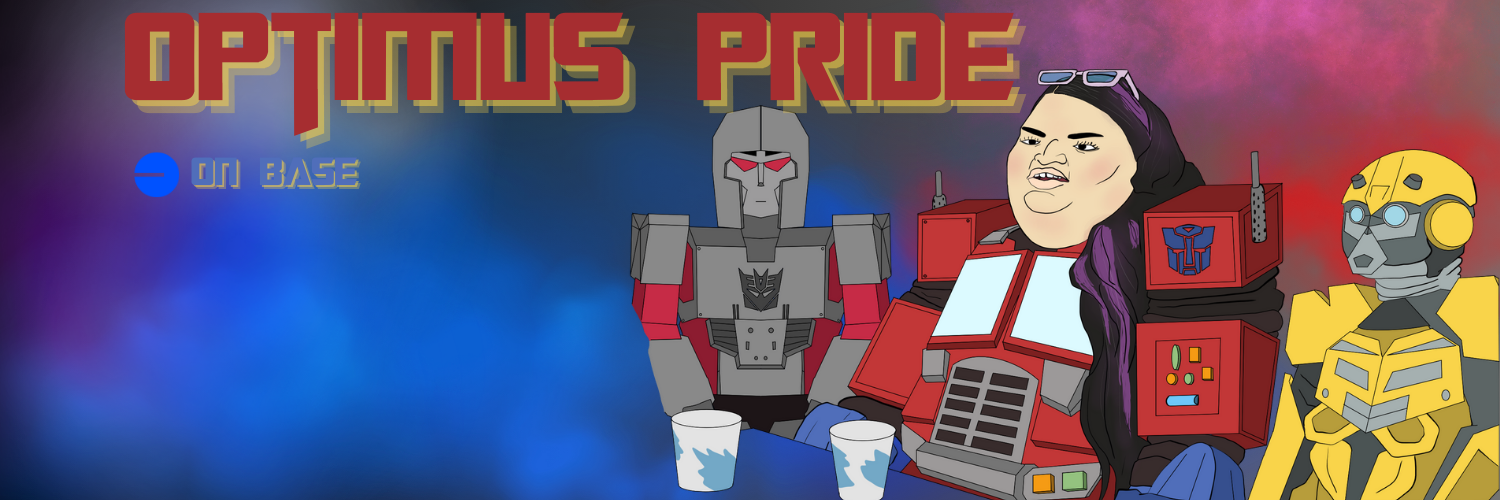
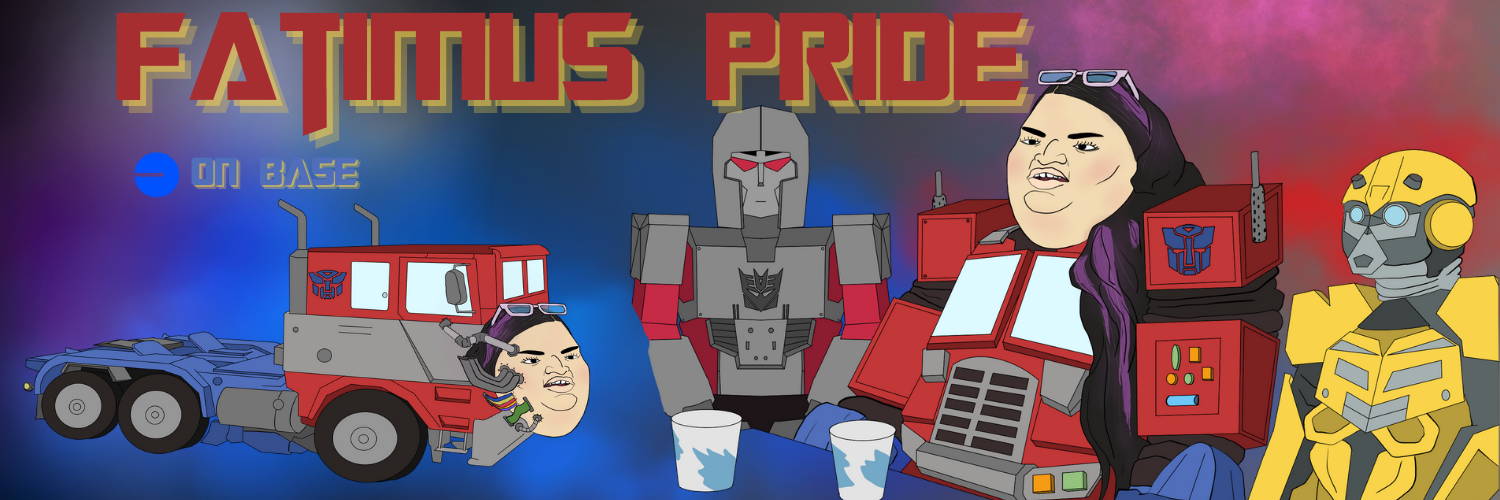
asd

Changed region(s): [[0.0, 0.39, 0.3987, 0.96], [0.0613, 0.03, 0.4293, 0.3], [0.46, 0.03, 0.7053, 0.24]]

diff --git a/index.html b/index.html
@@ -12,6 +12,7 @@
   <link rel="stylesheet" href="https://cdnjs.cloudflare.com/ajax/libs/font-awesome/6.5.2/css/all.min.css"
     integrity="sha512-SnH5WK+bZxgPHs44uWIX+LLJAJ9/2PkPKZ5QiAj6Ta86w+fsb2TkcmfRyVX3pBnMFcV7oQPJkl9QevSCWr3W6A=="
     crossorigin="anonymous" referrerpolicy="no-referrer" />
+    <link rel="icon" href="./images/logo.png" type="image/x-icon">
 
 
 
@@ -38,9 +39,9 @@
   </header>
 
   <div class="icons">
-    <a href="#" target="_blank"><i class="fa-brands fa-telegram"></i></a>
+    <a href="https://t.me/fatimusprideonape" target="_blank"><i class="fa-brands fa-telegram"></i></a>
     <div class="line"></div>
-    <a href="#" target="_blank"><i class="fa-brands fa-twitter"></i></a>
+    <a href="https://x.com/FatimusPrideBas" target="_blank"><i class="fa-brands fa-twitter"></i></a>
   </div>
 
   <section>
@@ -51,15 +52,18 @@
           <span>Fatimus Pride<br /></span>
         </h1>
         <p class="description">
-          Introducing Fatimus Pride, the token that celebrates being big, bold, and unapologetically you! Inspired by an autobot that rolls with pride and confidence, this token stands for self-love, body positivity, and inclusivity for all.
+          Introducing Fatimus Pride <h2>$FATIMUS</h2> the token that celebrates being big, bold, and unapologetically you! Inspired by an autobot that rolls with pride and confidence, this token stands for self-love, body positivity, and inclusivity for all.
 
 We believe in embracing all forms of transformation, whether it’s personal or digital. Fatimus Pride is here to remind you that bigger is better, and being yourself is the greatest power of all.
 
 Join us in celebrating a future filled with pride, diversity, and acceptance—because in our world, everyone rolls with pride.
 
         </p>
+        <br>
+        <h3>CA:xxxxxxxxxxxxxxxxxxxxxxxxxxxxxx</h3>
+        <br>
         <div class="buttons">
-          <a href="#">BUY</a>
+          <a href="#" target="_blank">BUY</a>
 
         </div>
       </div>
